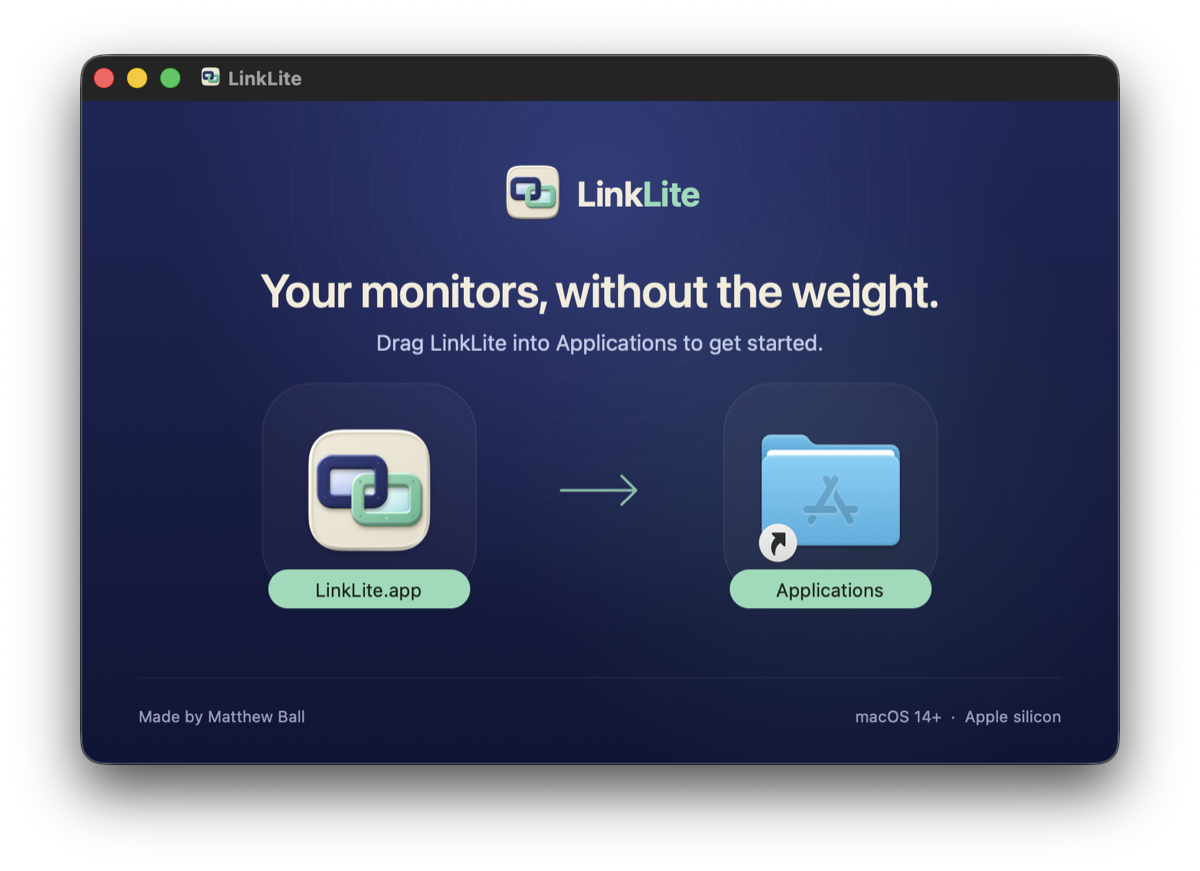
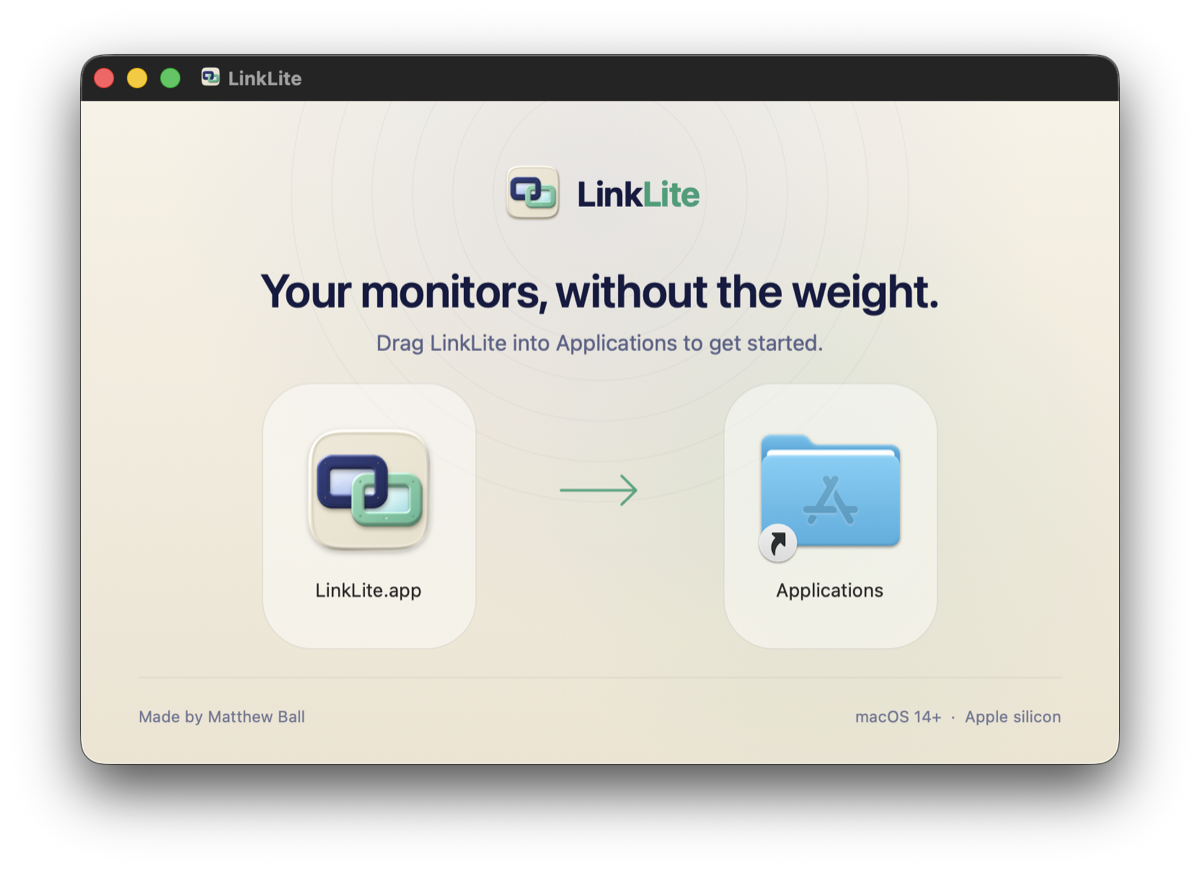
Installer: light window so Finder's black labels read cleanly
Finder always draws file-name labels in black over a custom background picture, so the
navy window needed light pills behind them. Switch to a cream window in the icon's
colours with taller wells that hold each icon and its label. Re-released the 0.3.1 disk
image (same app) and updated its feed signature.

diff --git a/scripts/dmg/render-background.swift b/scripts/dmg/render-background.swift
@@ -14,12 +14,14 @@ let height: CGFloat = 460
 func rgb(_ r: CGFloat, _ g: CGFloat, _ b: CGFloat, _ a: CGFloat = 1) -> NSColor {
     NSColor(srgbRed: r / 255, green: g / 255, blue: b / 255, alpha: a)
 }
-// The brand palette from docs/assets/src/social-preview.html.
-let navyTop = rgb(0x1d, 0x26, 0x58)
-let navyBottom = rgb(0x10, 0x15, 0x36)
-let cream = rgb(0xf3, 0xec, 0xdb)
-let mint = rgb(0x8f, 0xdc, 0xb8)
-let lavender = rgb(0xc3, 0xcb, 0xec)
+// A light window: Finder always draws file-name labels in black over a custom background
+// (it treats the window as light mode), so the art is light and the labels need nothing behind them.
+// Colours come from the icon: its cream tile, navy and mint links.
+let creamTop = rgb(0xf7, 0xf2, 0xe6)
+let creamBottom = rgb(0xec, 0xe4, 0xd1)
+let navy = rgb(0x14, 0x1a, 0x40)
+let slate = rgb(0x5b, 0x62, 0x88)
+let mint = rgb(0x2f, 0x9e, 0x76)
 let glowBlue = rgb(96, 118, 214)
 let glowMint = rgb(85, 181, 143)
 
@@ -32,13 +34,13 @@ func render(scale: Int) throws {
     NSGraphicsContext.current = NSGraphicsContext(bitmapImageRep: bitmap)
     NSGraphicsContext.current?.imageInterpolation = .high
     let bounds = NSRect(x: 0, y: 0, width: width, height: height)
-    NSGradient(starting: navyTop, ending: navyBottom)!.draw(in: bounds, angle: -90)
+    NSGradient(starting: creamTop, ending: creamBottom)!.draw(in: bounds, angle: -90)
 
     // Soft glows: blue behind the mark, mint low behind the drop target.
-    NSGradient(colors: [glowBlue.withAlphaComponent(0.30), glowBlue.withAlphaComponent(0)])!
+    NSGradient(colors: [glowBlue.withAlphaComponent(0.10), glowBlue.withAlphaComponent(0)])!
         .draw(fromCenter: NSPoint(x: 360, y: height - 70), radius: 0,
               toCenter: NSPoint(x: 360, y: height - 70), radius: 300, options: [])
-    NSGradient(colors: [glowMint.withAlphaComponent(0.12), glowMint.withAlphaComponent(0)])!
+    NSGradient(colors: [glowMint.withAlphaComponent(0.10), glowMint.withAlphaComponent(0)])!
         .draw(fromCenter: NSPoint(x: 520, y: height - 270), radius: 0,
               toCenter: NSPoint(x: 520, y: height - 270), radius: 220, options: [])
 
@@ -47,7 +49,7 @@ func render(scale: Int) throws {
         string.draw(at: NSPoint(x: centered ? x - measured.width / 2 : x, y: height - y - measured.height))
     }
     func plain(_ string: String, size: CGFloat, weight: NSFont.Weight = .regular,
-               color: NSColor = cream, kern: CGFloat = 0) -> NSAttributedString {
+               color: NSColor = navy, kern: CGFloat = 0) -> NSAttributedString {
         NSAttributedString(string: string, attributes: [
             .font: NSFont.systemFont(ofSize: size, weight: weight), .foregroundColor: color, .kern: kern,
         ])
@@ -57,7 +59,7 @@ func render(scale: Int) throws {
     for radius in stride(from: 214.0, through: 74.0, by: -28.0) {
         let circle = NSBezierPath(ovalIn: NSRect(x: 360 - radius, y: height - 64 - radius,
                                                width: radius * 2, height: radius * 2))
-        lavender.withAlphaComponent(0.035).setStroke(); circle.lineWidth = 0.6; circle.stroke()
+        navy.withAlphaComponent(0.05).setStroke(); circle.lineWidth = 0.6; circle.stroke()
     }
 
     // Brand mark: the app icon and the two-tone wordmark, centred together.
@@ -72,19 +74,16 @@ func render(scale: Int) throws {
 
     text(plain("Your monitors, without the weight.", size: 32, weight: .semibold, kern: -0.6),
          x: 360, y: 112, centered: true)
-    text(plain("Drag LinkLite into Applications to get started.", size: 15, color: lavender),
+    text(plain("Drag LinkLite into Applications to get started.", size: 15, color: slate),
          x: 360, y: 158, centered: true)
 
     // Finder places the real draggable icons over these wells.
     for center: CGFloat in [200, 520] {
-        let well = NSBezierPath(roundedRect: NSRect(x: center - 74, y: height - 270 - 74,
-                                                  width: 148, height: 148), xRadius: 34, yRadius: 34)
-        cream.withAlphaComponent(0.035).setFill(); well.fill()
-        cream.withAlphaComponent(0.10).setStroke(); well.lineWidth = 0.75; well.stroke()
-        // Finder draws dark icon-label text even over a dark background, so give it a light pill.
-        let label = NSBezierPath(roundedRect: NSRect(x: center - 70, y: height - 352,
-                                                   width: 140, height: 27), xRadius: 13.5, yRadius: 13.5)
-        mint.setFill(); label.fill()
+        // Tall enough to hold Finder's label (13 pt, about 30 pt below the icon's centre + 52).
+        let well = NSBezierPath(roundedRect: NSRect(x: center - 74, y: height - 380,
+                                                  width: 148, height: 184), xRadius: 34, yRadius: 34)
+        NSColor.white.withAlphaComponent(0.45).setFill(); well.fill()
+        navy.withAlphaComponent(0.08).setStroke(); well.lineWidth = 0.75; well.stroke()
     }
     let arrow = NSBezierPath()
     arrow.move(to: NSPoint(x: 333, y: height - 270))
@@ -93,12 +92,12 @@ func render(scale: Int) throws {
     arrow.line(to: NSPoint(x: 385, y: height - 270))
     arrow.line(to: NSPoint(x: 375, y: height - 280))
     arrow.lineWidth = 1.8; arrow.lineCapStyle = .round; arrow.lineJoinStyle = .round
-    mint.withAlphaComponent(0.85).setStroke(); arrow.stroke()
+    mint.withAlphaComponent(0.9).setStroke(); arrow.stroke()
 
     let rule = NSBezierPath()
     rule.move(to: NSPoint(x: 40, y: 60)); rule.line(to: NSPoint(x: 680, y: 60))
-    cream.withAlphaComponent(0.10).setStroke(); rule.lineWidth = 0.5; rule.stroke()
-    let footer = lavender.withAlphaComponent(0.75)
+    navy.withAlphaComponent(0.10).setStroke(); rule.lineWidth = 0.5; rule.stroke()
+    let footer = slate.withAlphaComponent(0.85)
     text(plain("Made by Matthew Ball", size: 11, color: footer), x: 40, y: 420)
     let platform = plain("macOS 14+  ·  Apple silicon", size: 11, color: footer)
     text(platform, x: 680 - platform.size().width, y: 420)
